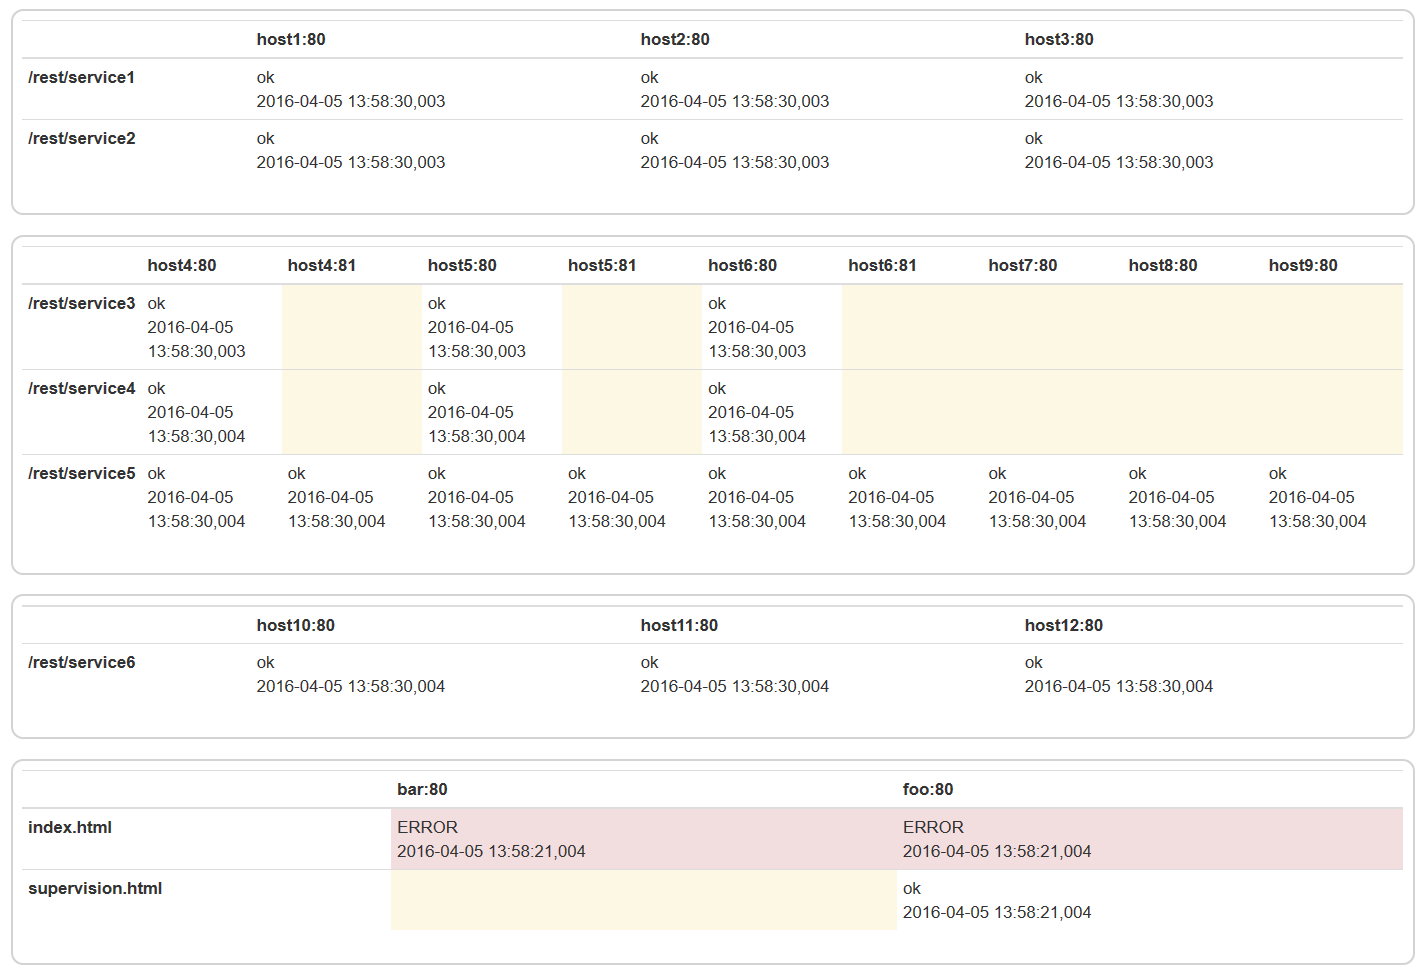
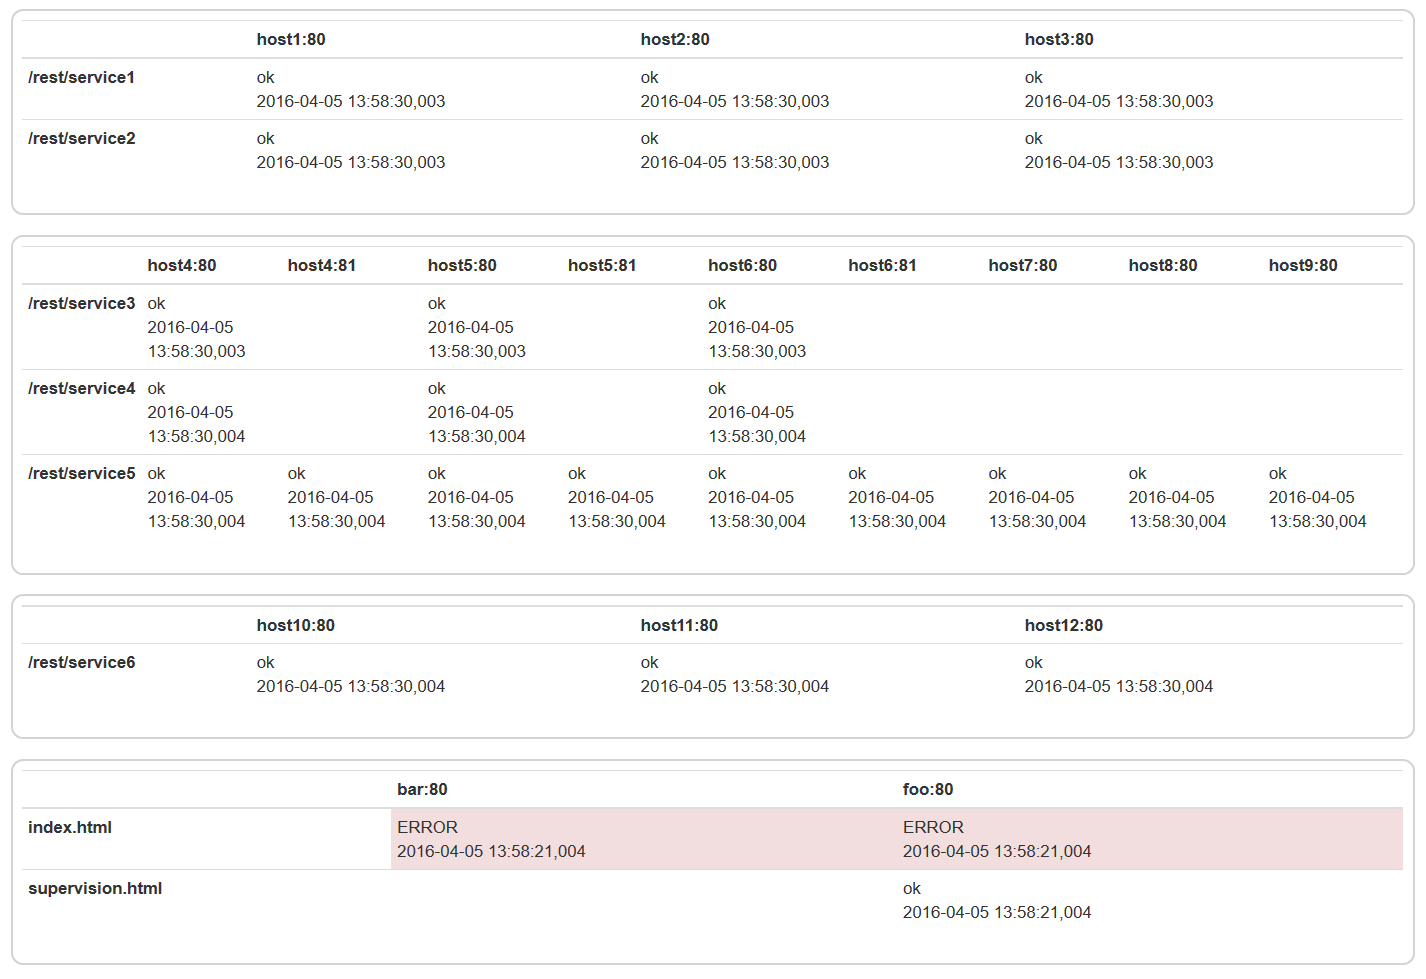
wui/gridboards: fixed html class for unknown status cells
use gridboard.tdclass.unknown instead of gridboard.tdclass.warning,
since a cell with unknown states is very likely to match an alert that
has never been raised or canceled, which is not suspect at all

diff --git a/doc/user-manual.html b/doc/user-manual.html
@@ -930,10 +930,12 @@ second one as columns, using one of the following syntaxes:
   <li><tt>gridboard.tdclass.ok</tt>: HTML table cell class for canceled alerts,
   defaults to an empty string
   <li><tt>gridboard.tdclass.warning</tt>: HTML table cell class for canceled
-  alerts not canceled for longer than the <tt>warningdelay</tt> or in unknown
-  status, defaults to <tt>warning</tt>
+  alerts not canceled for longer than the <tt>warningdelay</tt>, defaults to
+  <tt>warning</tt>
   <li><tt>gridboard.tdclass.error</tt>: HTML table cell class for raised
   alerts, defaults to  <tt>danger</tt>
+  <li><tt>gridboard.tdclass.unknown</tt>: HTML table cell class in unknown
+  status (most likely never raised nor canceled), defaults to an empty string
   <li><tt>gridboard.rowformat</tt>: custom format for row headers (i.e. first
   dimension values), this is a <a href="#percent-evaluation">%-expression</a>
   where <tt>%1</tt> is replaced with the actual dimension value, defaults to
